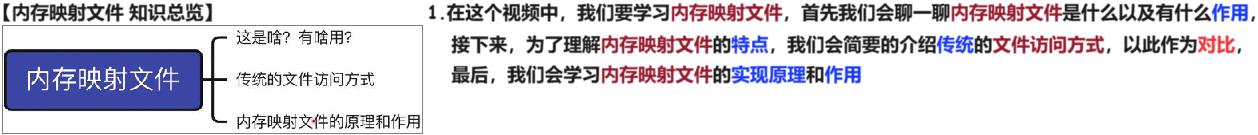
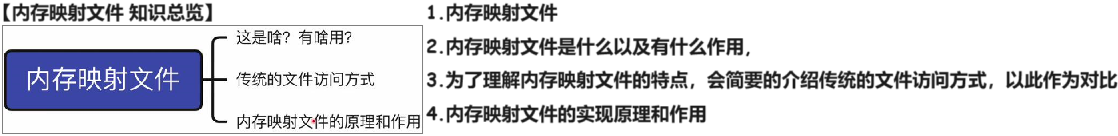
240704

diff --git a/01 初试/01 OS/02 24 25 王道/01 基础/03 内存管理/02 虚拟内存管理/05 内存映射文件 240630/01 消化/02 Doc.md b/01 初试/01 OS/02 24 25 王道/01 基础/03 内存管理/02 虚拟内存管理/05 内存映射文件 240630/01 消化/02 Doc.md
@@ -4,13 +4,13 @@
 
 # 01 内存映射文件 知识总览
 
-<img src="https://cvp.oss-cn-shanghai.aliyuncs.com/picgo/202405201824762.png" alt="image-20240520182429680" style="zoom:50%;" />
+<img src="https://cvp.oss-cn-shanghai.aliyuncs.com/picgo/202407040909325.png" alt="image-20240704090914104" style="zoom:50%;" />
 
 
 
 # 02 内存映射文件 Memory-Mapped Files 
 
-<img src="https://cvp.oss-cn-shanghai.aliyuncs.com/picgo/202405201900025.png" alt="image-20240520190027921" style="zoom:50%;" />
+
 
 
 
